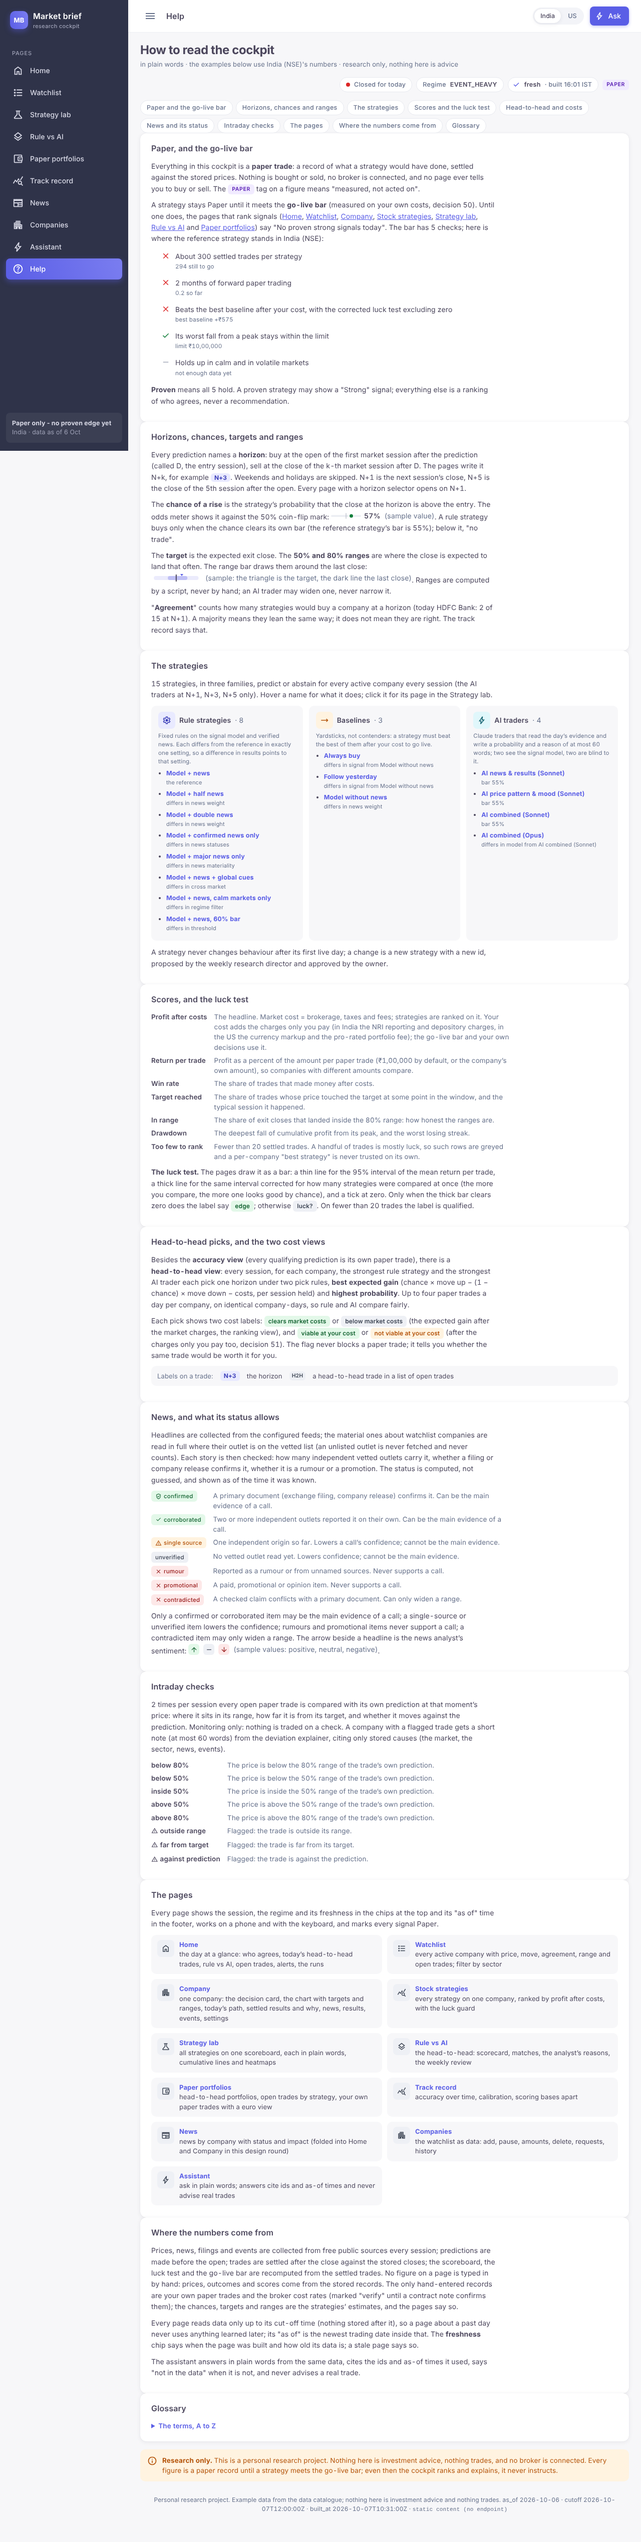
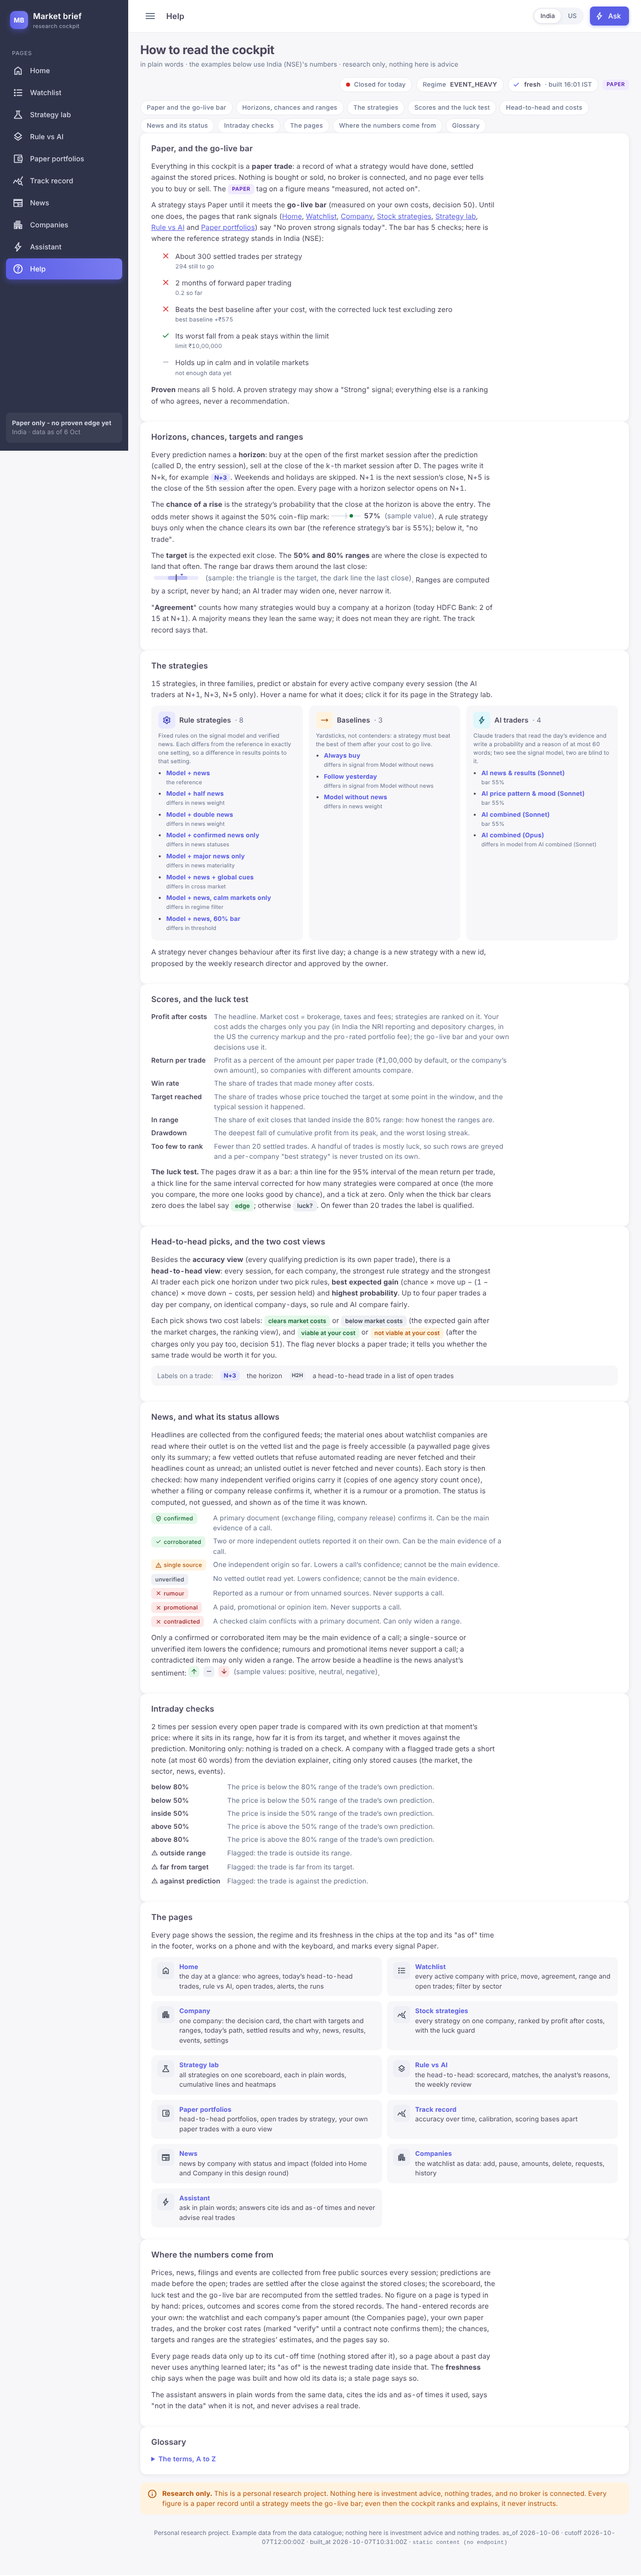
Design track: Help mockup, judge round 2 fixes (news reading limited to freely accessible vetted pages; hand-entered records include the watchlist and paper amounts; Cost view wording; agreement example labelled N+1)
Claude-Session: https://claude.ai/code/session_01RuLrYPoHyYoZ2LBEo834w9

diff --git a/design/mockups/12-help/page.html b/design/mockups/12-help/page.html
@@ -852,7 +852,7 @@ function render() {
     p_('Every prediction names a ', el('b', {}, 'horizon'), ': buy at the open of the first market session after the prediction (called D, the entry session), sell at the close of the k-th market session after D. The pages write it N+k, for example ', el('span', {class:'h-lab'}, `N+${p.horizons[2]}`), '. Weekends and holidays are skipped. ', horizonText, `. Every page with a horizon selector opens on N+${p.default_horizon}.`),
     p_('The ', el('b', {}, 'chance of a rise'), ' is the strategy’s probability that the close at the horizon is above the entry. The odds meter shows it against the 50% coin-flip mark: ', el('span', {class:'sample'}, odds(0.57, 'A sample: 57% chance of a rise.'), el('span', {class:'l muted'}, '(sample value)')), `. A rule strategy buys only when the chance clears its own bar (the reference strategy’s bar is ${pct(ref.threshold)}); below it, "no trade".`),
     p_('The ', el('b', {}, 'target'), ' is the expected exit close. The ', el('b', {}, '50% and 80% ranges'), ' are where the close is expected to land that often. The range bar draws them around the last close: ', el('span', {class:'sample'}, rangeBar(cur, {lo80: 96, lo50: 98.5, hi50: 102, hi80: 104, target_price: 101}, 100, null), el('span', {class:'l muted'}, '(sample: the triangle is the target, the dark line the last close)')), '. Ranges are computed by a script, never by hand; an AI trader may widen one, never narrow it.'),
-    p_('"', el('b', {}, 'Agreement'), `" counts how many strategies would buy a company at a horizon (today ${ex.name}: ${ex.agreement_n1.buy} of ${ex.agreement_n1.of} at N+${p.default_horizon}). A majority means they lean the same way; it does not mean they are right. The track record says that.`)));
+    p_('"', el('b', {}, 'Agreement'), `" counts how many strategies would buy a company at a horizon (today ${ex.name}: ${ex.agreement_n1.buy} of ${ex.agreement_n1.of} at N+1). A majority means they lean the same way; it does not mean they are right. The track record says that.`)));
 
   /* strategies */
   const fams = el('div', {class:'fam'});
@@ -875,7 +875,7 @@ function render() {
   /* news */
   const nl = el('dl'); for (const [k, v] of Object.entries(STATUS)) nl.append(el('dt', {}, statusBadge(k)), el('dd', {}, v[1]));
   page.append(card('news', 'News, and what its status allows',
-    p_('Headlines are collected from the configured feeds; the material ones about watchlist companies are read in full where their outlet is on the vetted list (an unlisted outlet is never fetched and never counts). Each story is then checked: how many independent vetted outlets carry it, whether a filing or company release confirms it, whether it is a rumour or a promotion. The status is computed, not guessed, and shown as of the time it was known.'),
+    p_('Headlines are collected from the configured feeds; the material ones about watchlist companies are read where their outlet is on the vetted list and the page is freely accessible (a paywalled page gives only its summary; a few vetted outlets that refuse automated reading are never fetched and their headlines count as unread; an unlisted outlet is never fetched and never counts). Each story is then checked: how many independent verified origins carry it (copies of one agency story count once), whether a filing or company release confirms it, whether it is a rumour or a promotion. The status is computed, not guessed, and shown as of the time it was known.'),
     nl,
     p_('Only a confirmed or corroborated item may be the main evidence of a call; a single-source or unverified item lowers the confidence; rumours and promotional items never support a call; a contradicted item may only widen a range. The arrow beside a headline is the news analyst’s sentiment: ', el('span', {class:'sample'}, sentSquare(0.6), sentSquare(0), sentSquare(-0.6), el('span', {class:'l muted'}, '(sample values: positive, neutral, negative)')), '.')));
 
@@ -893,13 +893,13 @@ function render() {
 
   /* numbers */
   page.append(card('numbers', 'Where the numbers come from',
-    p_('Prices, news, filings and events are collected from free public sources every session; predictions are made before the open; trades are settled after the close against the stored closes; the scoreboard, the luck test and the go-live bar are recomputed from the settled trades. No figure on a page is typed in by hand: prices, outcomes and scores come from the stored records. The only hand-entered records are your own paper trades and the broker cost rates (marked "verify" until a contract note confirms them); the chances, targets and ranges are the strategies’ estimates, and the pages say so.'),
+    p_('Prices, news, filings and events are collected from free public sources every session; predictions are made before the open; trades are settled after the close against the stored closes; the scoreboard, the luck test and the go-live bar are recomputed from the settled trades. No figure on a page is typed in by hand: prices, outcomes and scores come from the stored records. The hand-entered records are your own: the watchlist and each company’s paper amount (the Companies page), your own paper trades, and the broker cost rates (marked "verify" until a contract note confirms them); the chances, targets and ranges are the strategies’ estimates, and the pages say so.'),
     p_('Every page reads data only up to its cut-off time (nothing stored after it), so a page about a past day never uses anything learned later; its "as of" is the newest trading date inside that. The ', el('b', {}, 'freshness'), ' chip says when the page was built and how old its data is; a stale page says so.'),
     p_('The assistant answers in plain words from the same data, cites the ids and as-of times it used, says "not in the data" when it is not, and never advises a real trade.')));
 
   /* glossary */
   const gl = el('details', {class:'gl'}, el('summary', {}, 'The terms, A to Z'));
-  gl.append(dl([['As of', 'The newest trading date with stored indicators; every number on a page is computed to it.'], ['Cut-off', 'The time after which nothing is read for a page; stops look-ahead.'], ['D', 'The entry session: the first market session after the prediction is made; a trade enters at its open and N+k sells at the close of the k-th session after D.'], ['Regime', 'The market mood label stored by the daily run: CALM, TRENDING, EVENT_HEAVY or UNSTABLE. Rule strategies either skip the last two or not; AI traders lower their probability in them.'], ['Signal model', 'The explainable up/down probability built from the stored indicators and verified news, refitted monthly; the reference rule strategy trades it as is.'], ['Baseline', 'A yardstick strategy: always buy, follow yesterday, or the signal model without news.'], ['Pick rule', 'How a family chooses one horizon for its head-to-head trade: best expected gain or highest probability.'], ['Cost view', 'Market cost (the ranking view) or your cost (market cost plus your own broker’s charges).'], ['Settled', 'A paper trade whose exit close is stored; its profit after costs is final unless a later split correction re-settles it as a new record.'], ['Unrealised', 'The profit of an open paper trade at the latest stored close, before costs.'], ['Reason split', 'A settled trade’s move split into what the market explains, the sector, verified news, and the company itself.'], ['EOD analyst', `The Claude agent that writes a reason of at most ${REASON_MAX_WORDS} words per head-to-head trade and the day’s biggest wins and misses, after the close.`], ['Research director', 'The Claude agent that writes the weekly research review (apart from the weekly review of the ranges) and proposes changes as config diffs; it changes nothing itself.'], ['Inactive company', 'Still collected, never predicted or traded; its open paper trades still settle.']]));
+  gl.append(dl([['As of', 'The newest trading date with stored indicators; every number on a page is computed to it.'], ['Cut-off', 'The time after which nothing is read for a page; stops look-ahead.'], ['D', 'The entry session: the first market session after the prediction is made; a trade enters at its open and N+k sells at the close of the k-th session after D.'], ['Regime', 'The market mood label stored by the daily run: CALM, TRENDING, EVENT_HEAVY or UNSTABLE. Rule strategies either skip the last two or not; AI traders lower their probability in them.'], ['Signal model', 'The explainable up/down probability built from the stored indicators and verified news, refitted monthly; the reference rule strategy trades it as is.'], ['Baseline', 'A yardstick strategy: always buy, follow yesterday, or the signal model without news.'], ['Pick rule', 'How a family chooses one horizon for its head-to-head trade: best expected gain or highest probability.'], ['Cost view', 'Market cost (the ranking view) or your cost (market cost plus the charges only you pay).'], ['Settled', 'A paper trade whose exit close is stored; its profit after costs is final unless a later split correction re-settles it as a new record.'], ['Unrealised', 'The profit of an open paper trade at the latest stored close, before costs.'], ['Reason split', 'A settled trade’s move split into what the market explains, the sector, verified news, and the company itself.'], ['EOD analyst', `The Claude agent that writes a reason of at most ${REASON_MAX_WORDS} words per head-to-head trade and the day’s biggest wins and misses, after the close.`], ['Research director', 'The Claude agent that writes the weekly research review (apart from the weekly review of the ranges) and proposes changes as config diffs; it changes nothing itself.'], ['Inactive company', 'Still collected, never predicted or traded; its open paper trades still settle.']]));
   page.append(card('glossary', 'Glossary', gl));
   page.append(el('div', {class:'note2'}, icon('ms-info'), el('div', {}, el('b', {}, 'Research only.'), ' This is a personal research project. Nothing here is investment advice, nothing trades, and no broker is connected. Every figure is a paper record until a strategy meets the go-live bar; even then the cockpit ranks and explains, it never instructs.')));
   page.append(footer(market, 'static content (no endpoint)'));

diff --git a/design/mockups/12-help/template.html b/design/mockups/12-help/template.html
@@ -97,7 +97,7 @@ function render() {
     p_('Every prediction names a ', el('b', {}, 'horizon'), ': buy at the open of the first market session after the prediction (called D, the entry session), sell at the close of the k-th market session after D. The pages write it N+k, for example ', el('span', {class:'h-lab'}, `N+${p.horizons[2]}`), '. Weekends and holidays are skipped. ', horizonText, `. Every page with a horizon selector opens on N+${p.default_horizon}.`),
     p_('The ', el('b', {}, 'chance of a rise'), ' is the strategy’s probability that the close at the horizon is above the entry. The odds meter shows it against the 50% coin-flip mark: ', el('span', {class:'sample'}, odds(0.57, 'A sample: 57% chance of a rise.'), el('span', {class:'l muted'}, '(sample value)')), `. A rule strategy buys only when the chance clears its own bar (the reference strategy’s bar is ${pct(ref.threshold)}); below it, "no trade".`),
     p_('The ', el('b', {}, 'target'), ' is the expected exit close. The ', el('b', {}, '50% and 80% ranges'), ' are where the close is expected to land that often. The range bar draws them around the last close: ', el('span', {class:'sample'}, rangeBar(cur, {lo80: 96, lo50: 98.5, hi50: 102, hi80: 104, target_price: 101}, 100, null), el('span', {class:'l muted'}, '(sample: the triangle is the target, the dark line the last close)')), '. Ranges are computed by a script, never by hand; an AI trader may widen one, never narrow it.'),
-    p_('"', el('b', {}, 'Agreement'), `" counts how many strategies would buy a company at a horizon (today ${ex.name}: ${ex.agreement_n1.buy} of ${ex.agreement_n1.of} at N+${p.default_horizon}). A majority means they lean the same way; it does not mean they are right. The track record says that.`)));
+    p_('"', el('b', {}, 'Agreement'), `" counts how many strategies would buy a company at a horizon (today ${ex.name}: ${ex.agreement_n1.buy} of ${ex.agreement_n1.of} at N+1). A majority means they lean the same way; it does not mean they are right. The track record says that.`)));
 
   /* strategies */
   const fams = el('div', {class:'fam'});
@@ -120,7 +120,7 @@ function render() {
   /* news */
   const nl = el('dl'); for (const [k, v] of Object.entries(STATUS)) nl.append(el('dt', {}, statusBadge(k)), el('dd', {}, v[1]));
   page.append(card('news', 'News, and what its status allows',
-    p_('Headlines are collected from the configured feeds; the material ones about watchlist companies are read in full where their outlet is on the vetted list (an unlisted outlet is never fetched and never counts). Each story is then checked: how many independent vetted outlets carry it, whether a filing or company release confirms it, whether it is a rumour or a promotion. The status is computed, not guessed, and shown as of the time it was known.'),
+    p_('Headlines are collected from the configured feeds; the material ones about watchlist companies are read where their outlet is on the vetted list and the page is freely accessible (a paywalled page gives only its summary; a few vetted outlets that refuse automated reading are never fetched and their headlines count as unread; an unlisted outlet is never fetched and never counts). Each story is then checked: how many independent verified origins carry it (copies of one agency story count once), whether a filing or company release confirms it, whether it is a rumour or a promotion. The status is computed, not guessed, and shown as of the time it was known.'),
     nl,
     p_('Only a confirmed or corroborated item may be the main evidence of a call; a single-source or unverified item lowers the confidence; rumours and promotional items never support a call; a contradicted item may only widen a range. The arrow beside a headline is the news analyst’s sentiment: ', el('span', {class:'sample'}, sentSquare(0.6), sentSquare(0), sentSquare(-0.6), el('span', {class:'l muted'}, '(sample values: positive, neutral, negative)')), '.')));
 
@@ -138,13 +138,13 @@ function render() {
 
   /* numbers */
   page.append(card('numbers', 'Where the numbers come from',
-    p_('Prices, news, filings and events are collected from free public sources every session; predictions are made before the open; trades are settled after the close against the stored closes; the scoreboard, the luck test and the go-live bar are recomputed from the settled trades. No figure on a page is typed in by hand: prices, outcomes and scores come from the stored records. The only hand-entered records are your own paper trades and the broker cost rates (marked "verify" until a contract note confirms them); the chances, targets and ranges are the strategies’ estimates, and the pages say so.'),
+    p_('Prices, news, filings and events are collected from free public sources every session; predictions are made before the open; trades are settled after the close against the stored closes; the scoreboard, the luck test and the go-live bar are recomputed from the settled trades. No figure on a page is typed in by hand: prices, outcomes and scores come from the stored records. The hand-entered records are your own: the watchlist and each company’s paper amount (the Companies page), your own paper trades, and the broker cost rates (marked "verify" until a contract note confirms them); the chances, targets and ranges are the strategies’ estimates, and the pages say so.'),
     p_('Every page reads data only up to its cut-off time (nothing stored after it), so a page about a past day never uses anything learned later; its "as of" is the newest trading date inside that. The ', el('b', {}, 'freshness'), ' chip says when the page was built and how old its data is; a stale page says so.'),
     p_('The assistant answers in plain words from the same data, cites the ids and as-of times it used, says "not in the data" when it is not, and never advises a real trade.')));
 
   /* glossary */
   const gl = el('details', {class:'gl'}, el('summary', {}, 'The terms, A to Z'));
-  gl.append(dl([['As of', 'The newest trading date with stored indicators; every number on a page is computed to it.'], ['Cut-off', 'The time after which nothing is read for a page; stops look-ahead.'], ['D', 'The entry session: the first market session after the prediction is made; a trade enters at its open and N+k sells at the close of the k-th session after D.'], ['Regime', 'The market mood label stored by the daily run: CALM, TRENDING, EVENT_HEAVY or UNSTABLE. Rule strategies either skip the last two or not; AI traders lower their probability in them.'], ['Signal model', 'The explainable up/down probability built from the stored indicators and verified news, refitted monthly; the reference rule strategy trades it as is.'], ['Baseline', 'A yardstick strategy: always buy, follow yesterday, or the signal model without news.'], ['Pick rule', 'How a family chooses one horizon for its head-to-head trade: best expected gain or highest probability.'], ['Cost view', 'Market cost (the ranking view) or your cost (market cost plus your own broker’s charges).'], ['Settled', 'A paper trade whose exit close is stored; its profit after costs is final unless a later split correction re-settles it as a new record.'], ['Unrealised', 'The profit of an open paper trade at the latest stored close, before costs.'], ['Reason split', 'A settled trade’s move split into what the market explains, the sector, verified news, and the company itself.'], ['EOD analyst', `The Claude agent that writes a reason of at most ${REASON_MAX_WORDS} words per head-to-head trade and the day’s biggest wins and misses, after the close.`], ['Research director', 'The Claude agent that writes the weekly research review (apart from the weekly review of the ranges) and proposes changes as config diffs; it changes nothing itself.'], ['Inactive company', 'Still collected, never predicted or traded; its open paper trades still settle.']]));
+  gl.append(dl([['As of', 'The newest trading date with stored indicators; every number on a page is computed to it.'], ['Cut-off', 'The time after which nothing is read for a page; stops look-ahead.'], ['D', 'The entry session: the first market session after the prediction is made; a trade enters at its open and N+k sells at the close of the k-th session after D.'], ['Regime', 'The market mood label stored by the daily run: CALM, TRENDING, EVENT_HEAVY or UNSTABLE. Rule strategies either skip the last two or not; AI traders lower their probability in them.'], ['Signal model', 'The explainable up/down probability built from the stored indicators and verified news, refitted monthly; the reference rule strategy trades it as is.'], ['Baseline', 'A yardstick strategy: always buy, follow yesterday, or the signal model without news.'], ['Pick rule', 'How a family chooses one horizon for its head-to-head trade: best expected gain or highest probability.'], ['Cost view', 'Market cost (the ranking view) or your cost (market cost plus the charges only you pay).'], ['Settled', 'A paper trade whose exit close is stored; its profit after costs is final unless a later split correction re-settles it as a new record.'], ['Unrealised', 'The profit of an open paper trade at the latest stored close, before costs.'], ['Reason split', 'A settled trade’s move split into what the market explains, the sector, verified news, and the company itself.'], ['EOD analyst', `The Claude agent that writes a reason of at most ${REASON_MAX_WORDS} words per head-to-head trade and the day’s biggest wins and misses, after the close.`], ['Research director', 'The Claude agent that writes the weekly research review (apart from the weekly review of the ranges) and proposes changes as config diffs; it changes nothing itself.'], ['Inactive company', 'Still collected, never predicted or traded; its open paper trades still settle.']]));
   page.append(card('glossary', 'Glossary', gl));
   page.append(el('div', {class:'note2'}, icon('ms-info'), el('div', {}, el('b', {}, 'Research only.'), ' This is a personal research project. Nothing here is investment advice, nothing trades, and no broker is connected. Every figure is a paper record until a strategy meets the go-live bar; even then the cockpit ranks and explains, it never instructs.')));
   page.append(footer(market, 'static content (no endpoint)'));

diff --git a/design/mockups/12-help/notes.md b/design/mockups/12-help/notes.md
@@ -18,7 +18,7 @@ fields of every record (`pick`), except `status`, which is the market's record w
 | `go_live_detail` | Scoreboard row | `go_live.{proven, months_forward, trades_needed, beats_best_baseline, best_baseline_net_pnl, drawdown_limit, drawdown_within_limit, holds_in_calm_and_volatile, cost_view}` | the same row (the go-live checklist example) |
 | `default_amount` | Owner's paper portfolio | `default_amounts.<market>` | the market's default money per paper trade |
 | `strategies` | Strategy | `id`, `family`, `name`, `description`, `compared_to`, `differs_in`, `threshold`, `horizons`, `live` | all 15, keyed by id (the strategy lists; the description in each name's tooltip; the reference = the rule strategy without `compared_to`; the AI horizons = the union of the AI traders' `horizons`) |
-| `agreement_example` | Company | `ticker`, `name`, `agreement_n1.{buy, of}` | the market's first active company by ticker (the "Agreement" example) |
+| `agreement_example` | Company | `ticker`, `name`, `agreement_n1.{buy, of}` | the market's first active company by ticker (the "Agreement" example; the field is the N+1 count by definition, so the sentence says "at N+1") |
 
 Shown but static (written for the page, not data): every explanatory sentence; the sample odds meter (57%), the
 sample range bar (96-104 around 100) and the sample sentiment arrows are labelled "sample". The count of go-live

diff --git a/design/mockups/12-help/rationale.md b/design/mockups/12-help/rationale.md
@@ -73,6 +73,10 @@ the chips" (the chips hold session, regime and freshness; the as-of time is in t
 hand and nothing is estimated" (the owner's paper trades and the broker rates are hand-entered, the chances are
 estimates); figures typed inline (the opening horizon, the 55% bar, "12 of 15", "60 words", "N+3") now come from the
 data or a named shell constant; and notes.md and this file claimed the 15-year constant, which the page never used.
+Judge round 2 found two of them only partly fixed: the news sentence said vetted-outlet pages are "read in full"
+(DESIGN.md 3a: only where freely accessible; a paywalled page gives its summary, a vetted outlet that refuses
+automated reading is never fetched and its headlines count as unread), and the hand-entered list omitted the owner's
+company commands (the watchlist and each company's paper amount). Both reworded before round 3.
 
 ## Decisions taken for the owner (reported to the orchestrator)
 - The Help page is one scrolling page with an anchor chip row rather than tabs, so a reader can search it and a link
